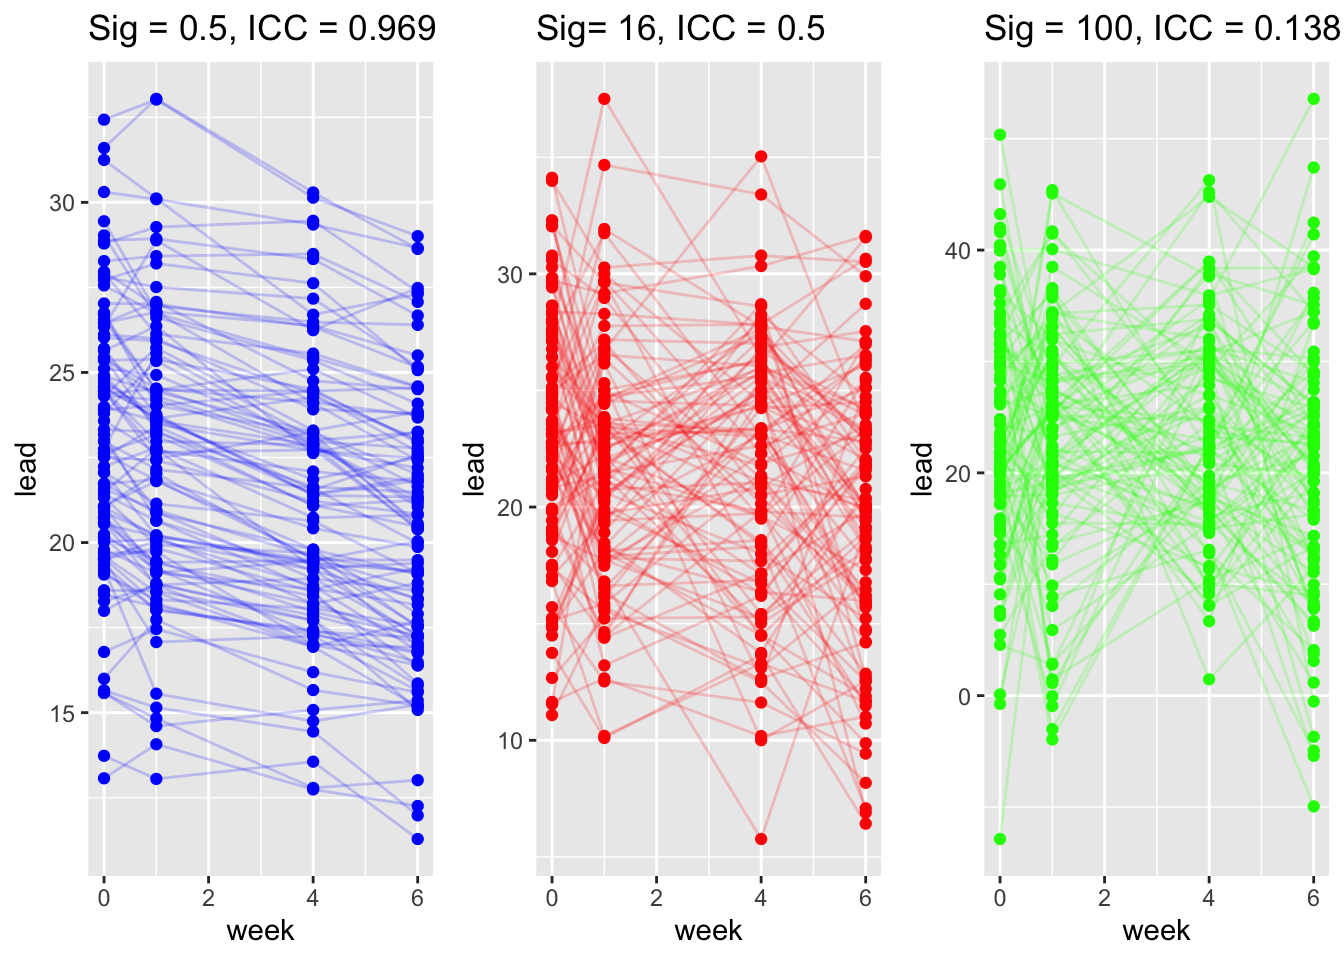
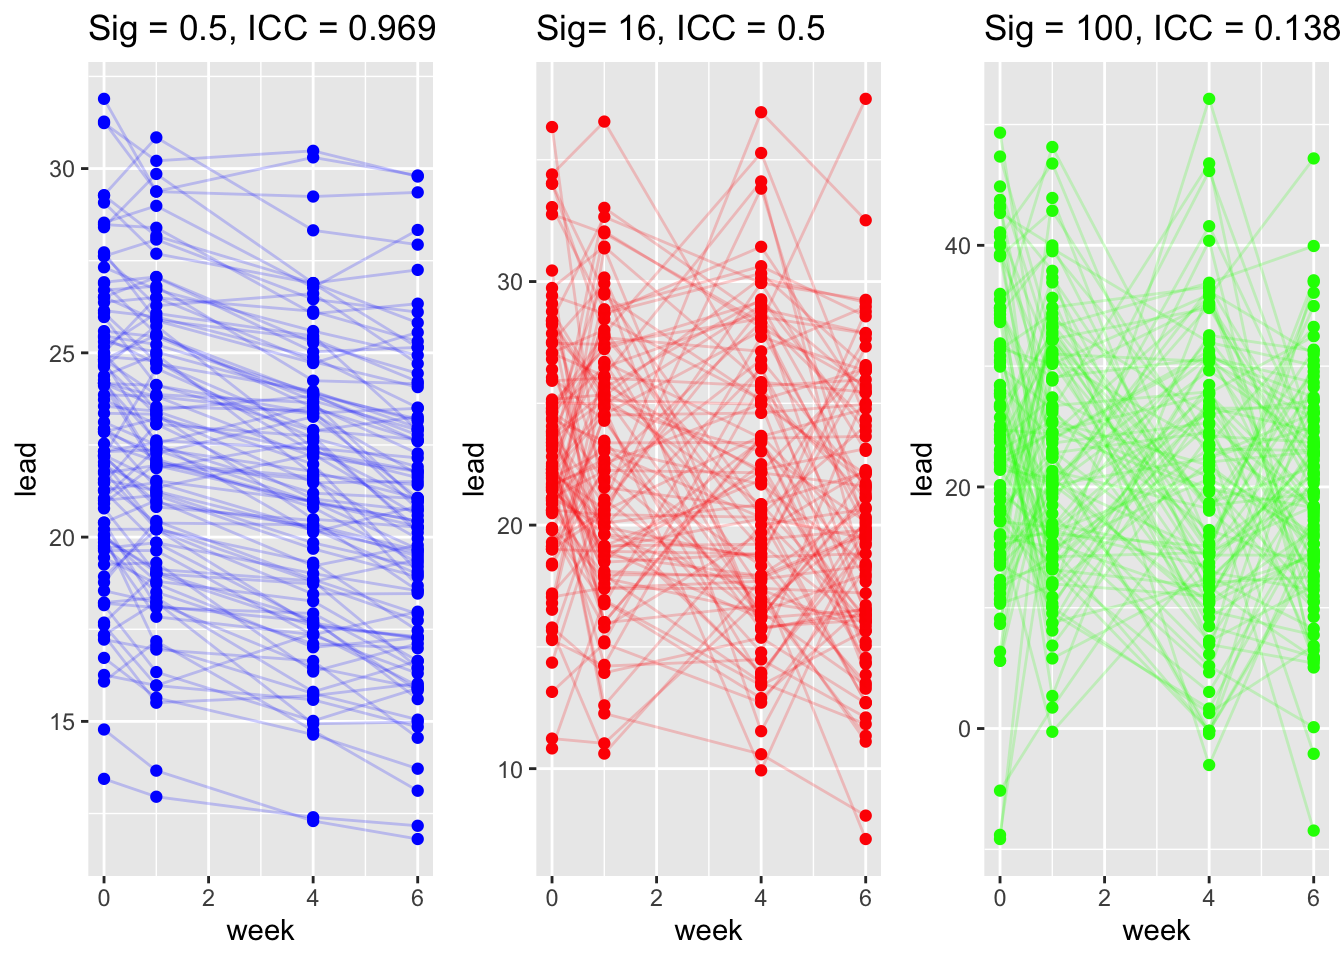
Built site for gh-pages

diff --git a/Module_1B_LMM.html b/Module_1B_LMM.html
@@ -600,25 +600,25 @@ Thus, good variance-component estimates (via REML) improve the estimation and in
 
     <script>
       // Create table-specific functions using external factory
-      const tableFns_77uqfylgcf7hivxpfzg7 = TinyTable.createTableFunctions("tinytable_77uqfylgcf7hivxpfzg7");
+      const tableFns_jhhmikm70ojbswrap3bv = TinyTable.createTableFunctions("tinytable_jhhmikm70ojbswrap3bv");
       // tinytable span after
       window.addEventListener('load', function () {
           var cellsToStyle = [
             // tinytable style arrays after
-          { positions: [ { i: '12', j: 2 }, { i: '12', j: 3 } ], css_id: 'tinytable_css_y97ytbnxmxg4tbr9g0h0',}, 
-          { positions: [ { i: '8', j: 2 }, { i: '8', j: 3 } ], css_id: 'tinytable_css_ytdp7nuo8f5glaeyxs3v',}, 
-          { positions: [ { i: '1', j: 2 }, { i: '2', j: 2 }, { i: '3', j: 2 }, { i: '4', j: 2 }, { i: '5', j: 2 }, { i: '6', j: 2 }, { i: '7', j: 2 }, { i: '9', j: 2 }, { i: '10', j: 2 }, { i: '11', j: 2 }, { i: '1', j: 3 }, { i: '2', j: 3 }, { i: '3', j: 3 }, { i: '4', j: 3 }, { i: '5', j: 3 }, { i: '6', j: 3 }, { i: '7', j: 3 }, { i: '9', j: 3 }, { i: '10', j: 3 }, { i: '11', j: 3 } ], css_id: 'tinytable_css_oziojb4azmpao8s7midu',}, 
-          { positions: [ { i: '0', j: 2 }, { i: '0', j: 3 } ], css_id: 'tinytable_css_hao8g4sdn3wdh28l1b9x',}, 
-          { positions: [ { i: '12', j: 1 } ], css_id: 'tinytable_css_89di4n6wt3u08817h6vi',}, 
-          { positions: [ { i: '8', j: 1 } ], css_id: 'tinytable_css_sqe4d9qe1nee000h5yx9',}, 
-          { positions: [ { i: '1', j: 1 }, { i: '2', j: 1 }, { i: '3', j: 1 }, { i: '4', j: 1 }, { i: '5', j: 1 }, { i: '6', j: 1 }, { i: '7', j: 1 }, { i: '9', j: 1 }, { i: '10', j: 1 }, { i: '11', j: 1 } ], css_id: 'tinytable_css_wqxaz40pcake5mg8v8br',}, 
-          { positions: [ { i: '0', j: 1 } ], css_id: 'tinytable_css_5m8ofzdh7d62hprm7qqy',}, 
+          { positions: [ { i: '12', j: 2 }, { i: '12', j: 3 } ], css_id: 'tinytable_css_a21k39tz4plln4qwu247',}, 
+          { positions: [ { i: '8', j: 2 }, { i: '8', j: 3 } ], css_id: 'tinytable_css_15mvo88tgva75byhhfnp',}, 
+          { positions: [ { i: '1', j: 2 }, { i: '2', j: 2 }, { i: '3', j: 2 }, { i: '4', j: 2 }, { i: '5', j: 2 }, { i: '6', j: 2 }, { i: '7', j: 2 }, { i: '9', j: 2 }, { i: '10', j: 2 }, { i: '11', j: 2 }, { i: '1', j: 3 }, { i: '2', j: 3 }, { i: '3', j: 3 }, { i: '4', j: 3 }, { i: '5', j: 3 }, { i: '6', j: 3 }, { i: '7', j: 3 }, { i: '9', j: 3 }, { i: '10', j: 3 }, { i: '11', j: 3 } ], css_id: 'tinytable_css_42f63nbxdddg9i4rink5',}, 
+          { positions: [ { i: '0', j: 2 }, { i: '0', j: 3 } ], css_id: 'tinytable_css_ymbzxp3ysmc2tabveewd',}, 
+          { positions: [ { i: '12', j: 1 } ], css_id: 'tinytable_css_57h3mxlikuq6rqdzjd4m',}, 
+          { positions: [ { i: '8', j: 1 } ], css_id: 'tinytable_css_vrn26ywe5l2c3prkx88z',}, 
+          { positions: [ { i: '1', j: 1 }, { i: '2', j: 1 }, { i: '3', j: 1 }, { i: '4', j: 1 }, { i: '5', j: 1 }, { i: '6', j: 1 }, { i: '7', j: 1 }, { i: '9', j: 1 }, { i: '10', j: 1 }, { i: '11', j: 1 } ], css_id: 'tinytable_css_40sxkdz67yuacdal3ljj',}, 
+          { positions: [ { i: '0', j: 1 } ], css_id: 'tinytable_css_e26meaghkttvva9fu4ac',}, 
           ];
 
           // Loop over the arrays to style the cells
           cellsToStyle.forEach(function (group) {
               group.positions.forEach(function (cell) {
-                  tableFns_77uqfylgcf7hivxpfzg7.styleCell(cell.i, cell.j, group.css_id);
+                  tableFns_jhhmikm70ojbswrap3bv.styleCell(cell.i, cell.j, group.css_id);
               });
           });
       });
@@ -627,17 +627,17 @@ Thus, good variance-component estimates (via REML) improve the estimation and in
     <link rel="stylesheet" href="https://cdn.jsdelivr.net/gh/vincentarelbundock/tinytable@main/inst/tinytable.css">
     <style>
     /* tinytable css entries after */
-    #tinytable_77uqfylgcf7hivxpfzg7 td.tinytable_css_y97ytbnxmxg4tbr9g0h0, #tinytable_77uqfylgcf7hivxpfzg7 th.tinytable_css_y97ytbnxmxg4tbr9g0h0 {  position: relative; --border-bottom: 1; --border-left: 0; --border-right: 0; --border-top: 0; --line-color-bottom: var(--tt-line-color); --line-color-left: var(--tt-line-color); --line-color-right: var(--tt-line-color); --line-color-top: var(--tt-line-color); --line-width-bottom: 0.08em; --line-width-left: 0.1em; --line-width-right: 0.1em; --line-width-top: 0.1em; --trim-bottom-left: 0%; --trim-bottom-right: 0%; --trim-left-bottom: 0%; --trim-left-top: 0%; --trim-right-bottom: 0%; --trim-right-top: 0%; --trim-top-left: 0%; --trim-top-right: 0%; ; text-align: center }
-    #tinytable_77uqfylgcf7hivxpfzg7 td.tinytable_css_ytdp7nuo8f5glaeyxs3v, #tinytable_77uqfylgcf7hivxpfzg7 th.tinytable_css_ytdp7nuo8f5glaeyxs3v {  position: relative; --border-bottom: 1; --border-left: 0; --border-right: 0; --border-top: 0; --line-color-bottom: var(--tt-line-color); --line-color-left: var(--tt-line-color); --line-color-right: var(--tt-line-color); --line-color-top: var(--tt-line-color); --line-width-bottom: 0.05em; --line-width-left: 0.1em; --line-width-right: 0.1em; --line-width-top: 0.1em; --trim-bottom-left: 0%; --trim-bottom-right: 0%; --trim-left-bottom: 0%; --trim-left-top: 0%; --trim-right-bottom: 0%; --trim-right-top: 0%; --trim-top-left: 0%; --trim-top-right: 0%; ; text-align: center }
-    #tinytable_77uqfylgcf7hivxpfzg7 td.tinytable_css_oziojb4azmpao8s7midu, #tinytable_77uqfylgcf7hivxpfzg7 th.tinytable_css_oziojb4azmpao8s7midu { text-align: center }
-    #tinytable_77uqfylgcf7hivxpfzg7 td.tinytable_css_hao8g4sdn3wdh28l1b9x, #tinytable_77uqfylgcf7hivxpfzg7 th.tinytable_css_hao8g4sdn3wdh28l1b9x {  position: relative; --border-bottom: 1; --border-left: 0; --border-right: 0; --border-top: 1; --line-color-bottom: var(--tt-line-color); --line-color-left: var(--tt-line-color); --line-color-right: var(--tt-line-color); --line-color-top: var(--tt-line-color); --line-width-bottom: 0.05em; --line-width-left: 0.1em; --line-width-right: 0.1em; --line-width-top: 0.08em; --trim-bottom-left: 0%; --trim-bottom-right: 0%; --trim-left-bottom: 0%; --trim-left-top: 0%; --trim-right-bottom: 0%; --trim-right-top: 0%; --trim-top-left: 0%; --trim-top-right: 0%; ; text-align: center }
-    #tinytable_77uqfylgcf7hivxpfzg7 td.tinytable_css_89di4n6wt3u08817h6vi, #tinytable_77uqfylgcf7hivxpfzg7 th.tinytable_css_89di4n6wt3u08817h6vi {  position: relative; --border-bottom: 1; --border-left: 0; --border-right: 0; --border-top: 0; --line-color-bottom: var(--tt-line-color); --line-color-left: var(--tt-line-color); --line-color-right: var(--tt-line-color); --line-color-top: var(--tt-line-color); --line-width-bottom: 0.08em; --line-width-left: 0.1em; --line-width-right: 0.1em; --line-width-top: 0.1em; --trim-bottom-left: 0%; --trim-bottom-right: 0%; --trim-left-bottom: 0%; --trim-left-top: 0%; --trim-right-bottom: 0%; --trim-right-top: 0%; --trim-top-left: 0%; --trim-top-right: 0%; ; text-align: left }
-    #tinytable_77uqfylgcf7hivxpfzg7 td.tinytable_css_sqe4d9qe1nee000h5yx9, #tinytable_77uqfylgcf7hivxpfzg7 th.tinytable_css_sqe4d9qe1nee000h5yx9 {  position: relative; --border-bottom: 1; --border-left: 0; --border-right: 0; --border-top: 0; --line-color-bottom: var(--tt-line-color); --line-color-left: var(--tt-line-color); --line-color-right: var(--tt-line-color); --line-color-top: var(--tt-line-color); --line-width-bottom: 0.05em; --line-width-left: 0.1em; --line-width-right: 0.1em; --line-width-top: 0.1em; --trim-bottom-left: 0%; --trim-bottom-right: 0%; --trim-left-bottom: 0%; --trim-left-top: 0%; --trim-right-bottom: 0%; --trim-right-top: 0%; --trim-top-left: 0%; --trim-top-right: 0%; ; text-align: left }
-    #tinytable_77uqfylgcf7hivxpfzg7 td.tinytable_css_wqxaz40pcake5mg8v8br, #tinytable_77uqfylgcf7hivxpfzg7 th.tinytable_css_wqxaz40pcake5mg8v8br { text-align: left }
-    #tinytable_77uqfylgcf7hivxpfzg7 td.tinytable_css_5m8ofzdh7d62hprm7qqy, #tinytable_77uqfylgcf7hivxpfzg7 th.tinytable_css_5m8ofzdh7d62hprm7qqy {  position: relative; --border-bottom: 1; --border-left: 0; --border-right: 0; --border-top: 1; --line-color-bottom: var(--tt-line-color); --line-color-left: var(--tt-line-color); --line-color-right: var(--tt-line-color); --line-color-top: var(--tt-line-color); --line-width-bottom: 0.05em; --line-width-left: 0.1em; --line-width-right: 0.1em; --line-width-top: 0.08em; --trim-bottom-left: 0%; --trim-bottom-right: 0%; --trim-left-bottom: 0%; --trim-left-top: 0%; --trim-right-bottom: 0%; --trim-right-top: 0%; --trim-top-left: 0%; --trim-top-right: 0%; ; text-align: left }
+    #tinytable_jhhmikm70ojbswrap3bv td.tinytable_css_a21k39tz4plln4qwu247, #tinytable_jhhmikm70ojbswrap3bv th.tinytable_css_a21k39tz4plln4qwu247 {  position: relative; --border-bottom: 1; --border-left: 0; --border-right: 0; --border-top: 0; --line-color-bottom: var(--tt-line-color); --line-color-left: var(--tt-line-color); --line-color-right: var(--tt-line-color); --line-color-top: var(--tt-line-color); --line-width-bottom: 0.08em; --line-width-left: 0.1em; --line-width-right: 0.1em; --line-width-top: 0.1em; --trim-bottom-left: 0%; --trim-bottom-right: 0%; --trim-left-bottom: 0%; --trim-left-top: 0%; --trim-right-bottom: 0%; --trim-right-top: 0%; --trim-top-left: 0%; --trim-top-right: 0%; ; text-align: center }
+    #tinytable_jhhmikm70ojbswrap3bv td.tinytable_css_15mvo88tgva75byhhfnp, #tinytable_jhhmikm70ojbswrap3bv th.tinytable_css_15mvo88tgva75byhhfnp {  position: relative; --border-bottom: 1; --border-left: 0; --border-right: 0; --border-top: 0; --line-color-bottom: var(--tt-line-color); --line-color-left: var(--tt-line-color); --line-color-right: var(--tt-line-color); --line-color-top: var(--tt-line-color); --line-width-bottom: 0.05em; --line-width-left: 0.1em; --line-width-right: 0.1em; --line-width-top: 0.1em; --trim-bottom-left: 0%; --trim-bottom-right: 0%; --trim-left-bottom: 0%; --trim-left-top: 0%; --trim-right-bottom: 0%; --trim-right-top: 0%; --trim-top-left: 0%; --trim-top-right: 0%; ; text-align: center }
+    #tinytable_jhhmikm70ojbswrap3bv td.tinytable_css_42f63nbxdddg9i4rink5, #tinytable_jhhmikm70ojbswrap3bv th.tinytable_css_42f63nbxdddg9i4rink5 { text-align: center }
+    #tinytable_jhhmikm70ojbswrap3bv td.tinytable_css_ymbzxp3ysmc2tabveewd, #tinytable_jhhmikm70ojbswrap3bv th.tinytable_css_ymbzxp3ysmc2tabveewd {  position: relative; --border-bottom: 1; --border-left: 0; --border-right: 0; --border-top: 1; --line-color-bottom: var(--tt-line-color); --line-color-left: var(--tt-line-color); --line-color-right: var(--tt-line-color); --line-color-top: var(--tt-line-color); --line-width-bottom: 0.05em; --line-width-left: 0.1em; --line-width-right: 0.1em; --line-width-top: 0.08em; --trim-bottom-left: 0%; --trim-bottom-right: 0%; --trim-left-bottom: 0%; --trim-left-top: 0%; --trim-right-bottom: 0%; --trim-right-top: 0%; --trim-top-left: 0%; --trim-top-right: 0%; ; text-align: center }
+    #tinytable_jhhmikm70ojbswrap3bv td.tinytable_css_57h3mxlikuq6rqdzjd4m, #tinytable_jhhmikm70ojbswrap3bv th.tinytable_css_57h3mxlikuq6rqdzjd4m {  position: relative; --border-bottom: 1; --border-left: 0; --border-right: 0; --border-top: 0; --line-color-bottom: var(--tt-line-color); --line-color-left: var(--tt-line-color); --line-color-right: var(--tt-line-color); --line-color-top: var(--tt-line-color); --line-width-bottom: 0.08em; --line-width-left: 0.1em; --line-width-right: 0.1em; --line-width-top: 0.1em; --trim-bottom-left: 0%; --trim-bottom-right: 0%; --trim-left-bottom: 0%; --trim-left-top: 0%; --trim-right-bottom: 0%; --trim-right-top: 0%; --trim-top-left: 0%; --trim-top-right: 0%; ; text-align: left }
+    #tinytable_jhhmikm70ojbswrap3bv td.tinytable_css_vrn26ywe5l2c3prkx88z, #tinytable_jhhmikm70ojbswrap3bv th.tinytable_css_vrn26ywe5l2c3prkx88z {  position: relative; --border-bottom: 1; --border-left: 0; --border-right: 0; --border-top: 0; --line-color-bottom: var(--tt-line-color); --line-color-left: var(--tt-line-color); --line-color-right: var(--tt-line-color); --line-color-top: var(--tt-line-color); --line-width-bottom: 0.05em; --line-width-left: 0.1em; --line-width-right: 0.1em; --line-width-top: 0.1em; --trim-bottom-left: 0%; --trim-bottom-right: 0%; --trim-left-bottom: 0%; --trim-left-top: 0%; --trim-right-bottom: 0%; --trim-right-top: 0%; --trim-top-left: 0%; --trim-top-right: 0%; ; text-align: left }
+    #tinytable_jhhmikm70ojbswrap3bv td.tinytable_css_40sxkdz67yuacdal3ljj, #tinytable_jhhmikm70ojbswrap3bv th.tinytable_css_40sxkdz67yuacdal3ljj { text-align: left }
+    #tinytable_jhhmikm70ojbswrap3bv td.tinytable_css_e26meaghkttvva9fu4ac, #tinytable_jhhmikm70ojbswrap3bv th.tinytable_css_e26meaghkttvva9fu4ac {  position: relative; --border-bottom: 1; --border-left: 0; --border-right: 0; --border-top: 1; --line-color-bottom: var(--tt-line-color); --line-color-left: var(--tt-line-color); --line-color-right: var(--tt-line-color); --line-color-top: var(--tt-line-color); --line-width-bottom: 0.05em; --line-width-left: 0.1em; --line-width-right: 0.1em; --line-width-top: 0.08em; --trim-bottom-left: 0%; --trim-bottom-right: 0%; --trim-left-bottom: 0%; --trim-left-top: 0%; --trim-right-bottom: 0%; --trim-right-top: 0%; --trim-top-left: 0%; --trim-top-right: 0%; ; text-align: left }
     </style>
     <div class="container">
-      <table class="tinytable" id="tinytable_77uqfylgcf7hivxpfzg7" style="width: auto; margin-left: auto; margin-right: auto;" data-quarto-disable-processing="true">
+      <table class="tinytable" id="tinytable_jhhmikm70ojbswrap3bv" style="width: auto; margin-left: auto; margin-right: auto;" data-quarto-disable-processing="true">
         
         <thead>
               <tr>

diff --git a/Module_5A_GAMs.html b/Module_5A_GAMs.html
@@ -470,7 +470,7 @@ Basis dimension (k) checking results. Low p-value (k-index&lt;1) may
 indicate that k is too low, especially if edf is close to k'.
 
          k'  edf k-index p-value
-s(age) 9.00 3.31    0.95    0.78</code></pre>
+s(age) 9.00 3.31    0.92    0.83</code></pre>
 </div>
 </div>
 <p><strong>Interpretation:</strong></p>
@@ -719,14 +719,14 @@ Model rank =  179 / 179
 Basis dimension (k) checking results. Low p-value (k-index&lt;1) may
 indicate that k is too low, especially if edf is close to k'.
 
-                k'   edf k-index p-value    
-s(pm25_lag1)  9.00  1.00    1.03    0.94    
-s(doy)       28.00 13.65    1.02    0.85    
-s(date2)     99.00 11.11    0.93  &lt;2e-16 ***
-s(Temp)       9.00  1.69    1.00    0.54    
-s(DpTemp)     9.00  1.00    1.00    0.54    
-s(rmTemp)     9.00  5.42    1.05    0.99    
-s(rmDpTemp)   9.00  1.00    1.01    0.69    
+                k'   edf k-index p-value  
+s(pm25_lag1)  9.00  1.00    1.03   0.870  
+s(doy)       28.00 13.65    1.02   0.860  
+s(date2)     99.00 11.11    0.93   0.015 *
+s(Temp)       9.00  1.69    1.00   0.510  
+s(DpTemp)     9.00  1.00    1.00   0.490  
+s(rmTemp)     9.00  5.42    1.05   0.990  
+s(rmDpTemp)   9.00  1.00    1.01   0.620  
 ---
 Signif. codes:  0 '***' 0.001 '**' 0.01 '*' 0.05 '.' 0.1 ' ' 1</code></pre>
 </div>
